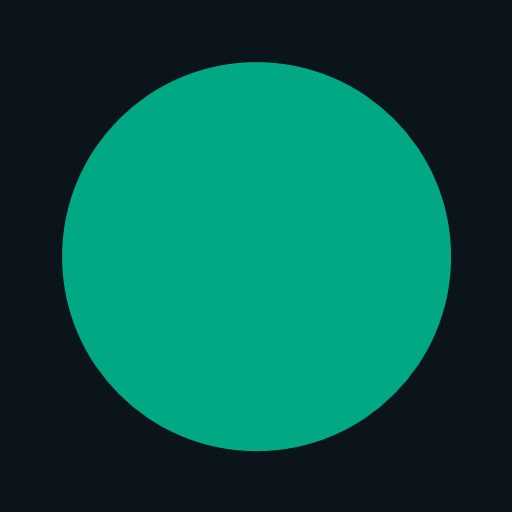
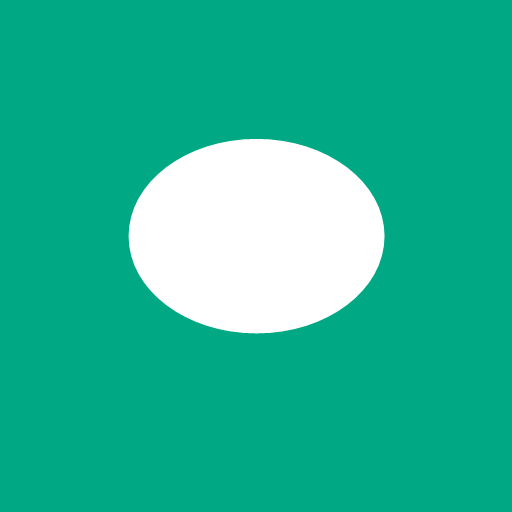
Initial commit

diff --git a/src/services/push.service.ts b/src/services/push.service.ts
@@ -1,0 +1,83 @@
+import { supabase } from '@/lib/supabase';
+
+/**
+ * Web Push helpers for PWA notifications.
+ *
+ * The VAPID public key comes from the deployment environment. If it is not
+ * configured, push subscription is skipped and the app falls back to
+ * foreground-only `new Notification()`.
+ */
+const VAPID_PUBLIC_KEY = import.meta.env.VITE_VAPID_PUBLIC_KEY as string | undefined;
+
+function urlBase64ToUint8Array(base64String: string): Uint8Array {
+  const padding = '='.repeat((4 - (base64String.length % 4)) % 4);
+  const base64 = (base64String + padding).replace(/-/g, '+').replace(/_/g, '/');
+  const rawData = window.atob(base64);
+  const outputArray = new Uint8Array(rawData.length);
+  for (let i = 0; i < rawData.length; ++i) {
+    outputArray[i] = rawData.charCodeAt(i);
+  }
+  return outputArray;
+}
+
+/** Register (or re-use) a push subscription for the current user. */
+export async function subscribeToPush(): Promise<boolean> {
+  if (!('serviceWorker' in navigator) || !('PushManager' in window)) {
+    return false;
+  }
+  if (!VAPID_PUBLIC_KEY) {
+    // No VAPID key configured — cannot do Web Push.
+    return false;
+  }
+
+  try {
+    const registration = await navigator.serviceWorker.ready;
+    const existing = await registration.pushManager.getSubscription();
+    const subscription = existing || (await registration.pushManager.subscribe({
+      userVisibleOnly: true,
+      applicationServerKey: urlBase64ToUint8Array(VAPID_PUBLIC_KEY),
+    }));
+
+    const { data: { user } } = await supabase.auth.getUser();
+    if (!user) return false;
+
+    const subJson = subscription.toJSON() as {
+      endpoint: string;
+      keys?: { p256dh?: string; auth?: string };
+    };
+
+    const { error } = await supabase.from('push_subscriptions').upsert(
+      {
+        user_id: user.id,
+        endpoint: subJson.endpoint,
+        p256dh: subJson.keys?.p256dh ?? '',
+        auth: subJson.keys?.auth ?? '',
+        user_agent: navigator.userAgent,
+      },
+      { onConflict: 'endpoint' }
+    );
+
+    return !error;
+  } catch {
+    return false;
+  }
+}
+
+/** Remove the current push subscription for the user. */
+export async function unsubscribeFromPush(): Promise<boolean> {
+  try {
+    const registration = await navigator.serviceWorker.ready;
+    const subscription = await registration.pushManager.getSubscription();
+    if (subscription) {
+      const endpoint = subscription.endpoint;
+      await subscription.unsubscribe();
+      const { data: { user } } = await supabase.auth.getUser();
+      if (user && endpoint) {
+        await supabase.from('push_subscriptions').delete().eq('endpoint', endpoint);
+      }
+    }
+    return true;
+  } catch {
+    return false;
+  }
+}

diff --git a/public/sw.js b/public/sw.js
@@ -1,6 +1,6 @@
-// Minimal service worker for PWA offline shell caching.
-const CACHE = 'pulse-v1';
-const ASSETS = ['/', '/index.html', '/icon.svg', '/manifest.webmanifest'];
+// Service worker for Pulse: offline shell caching + Web Push notifications.
+const CACHE = 'pulse-v2';
+const ASSETS = ['/', '/index.html', '/icon.svg', '/icon-192.png', '/icon-512.png', '/manifest.webmanifest'];
 
 self.addEventListener('install', (e) => {
   e.waitUntil(caches.open(CACHE).then((c) => c.addAll(ASSETS)));
@@ -47,4 +47,42 @@ self.addEventListener('fetch', (e) => {
       )
     );
   }
+});
+
+// --- Web Push notifications ---------------------------------------------
+
+self.addEventListener('push', (event) => {
+  let data = {};
+  try {
+    data = event.data ? event.data.json() : {};
+  } catch {
+    data = { title: 'Pulse', body: 'New message' };
+  }
+
+  const title = data.title || 'Pulse';
+  const options = {
+    body: data.body || 'You have a new message',
+    icon: data.icon || '/icon-192.png',
+    badge: '/icon-192.png',
+    data: { url: data.url || '/chats' },
+    ...(data.tag ? { tag: data.tag } : {}),
+  };
+
+  event.waitUntil(self.registration.showNotification(title, options));
+});
+
+self.addEventListener('notificationclick', (event) => {
+  event.notification.close();
+  const url = event.notification.data?.url || '/chats';
+  event.waitUntil(
+    self.clients.matchAll({ type: 'window', includeUncontrolled: true }).then((clients) => {
+      for (const client of clients) {
+        if ('focus' in client) {
+          client.navigate(url);
+          return client.focus();
+        }
+      }
+      return self.clients.openWindow(url);
+    })
+  );
 });

diff --git a/src/hooks/useBrowserNotifications.ts b/src/hooks/useBrowserNotifications.ts
@@ -1,4 +1,5 @@
 import { useEffect, useState, useCallback } from 'react';
+import { subscribeToPush, unsubscribeFromPush } from '@/services/push.service';
 
 type Permission = 'default' | 'granted' | 'denied' | 'unsupported';
 
@@ -17,6 +18,10 @@ export function useBrowserNotifications() {
     if (!('Notification' in window)) return 'unsupported' as const;
     const result = await Notification.requestPermission();
     setPermission(result as Permission);
+    if (result === 'granted') {
+      // Register the PWA push subscription if the service worker is ready.
+      await subscribeToPush();
+    }
     return result as Permission;
   }, []);
 
@@ -27,8 +32,8 @@ export function useBrowserNotifications() {
       }
       try {
         const n = new Notification(title, {
-          icon: '/icon.svg',
-          badge: '/icon.svg',
+          icon: '/icon-192.png',
+          badge: '/icon-192.png',
           ...options,
         });
         if (options?.onClick) {
@@ -46,5 +51,9 @@ export function useBrowserNotifications() {
     []
   );
 
-  return { permission, requestPermission, notify };
+  const disable = useCallback(async () => {
+    await unsubscribeFromPush();
+  }, []);
+
+  return { permission, requestPermission, notify, disable };
 }

diff --git a/src/layouts/ChatLayout.tsx b/src/layouts/ChatLayout.tsx
@@ -18,19 +18,25 @@ export function ChatLayout() {
     location.pathname === '/starred';
 
   return (
-    <div className="flex min-h-dvh w-full pt-safe bg-chat-panel dark:bg-chat-dark-panel">
+    <div className="flex h-dvh w-full pt-safe overflow-hidden bg-chat-panel dark:bg-chat-dark-panel">
       <aside
         className={cn(
-          'sidebar-pane w-full shrink-0 border-r border-chat-border dark:border-chat-dark-border md:w-[380px] lg:w-[400px]',
+          'sidebar-pane w-full h-full shrink-0 overflow-hidden border-r border-chat-border dark:border-chat-dark-border md:w-[380px] lg:w-[400px]',
           isMobileFullScreen && 'hidden md:flex'
         )}
       >
         <ChatSidebar />
       </aside>
 
-      <main className={cn('chat-pane flex-1 min-w-0', !isMobileFullScreen && 'hidden md:flex')}>
+      <main
+        className={cn(
+          'chat-pane h-full flex-1 min-w-0 overflow-hidden',
+          !isMobileFullScreen && 'hidden md:flex'
+        )}
+      >
         <Outlet />
       </main>
     </div>
   );
 }
+

diff --git a/src/pages/SettingsPage.tsx b/src/pages/SettingsPage.tsx
@@ -31,7 +31,7 @@ export function SettingsPage() {
   const navigate = useNavigate();
   const { user, profile, signOut } = useAuth();
   const { mode, setMode, accentColor, setAccentColor } = useTheme();
-  const { permission, requestPermission } = useBrowserNotifications();
+const { permission, requestPermission, disable } = useBrowserNotifications();
   const [notifEnabled, setNotifEnabled] = useState(true);
   const [soundEnabled, setSoundEnabled] = useState(true);
 
@@ -48,6 +48,10 @@ export function SettingsPage() {
       await supabase
         .from('user_settings')
         .upsert({ user_id: user.id, notifications_enabled: !notifEnabled });
+    }
+    // If disabling, also remove the push subscription.
+    if (notifEnabled) {
+      await disable();
     }
   };
 

diff --git a/TODO.md b/TODO.md
@@ -9,3 +9,10 @@
 - [x] 6. Fix `ChatSidebar.tsx` — safe-area bottom padding on footer
 - [x] 7. Update `manifest.webmanifest` — proper PWA icons for installability
 - [x] 8. Verify build compiles with `npm run build`
+
+## PWA Notification Support (bonus)
+- [x] Add `push_subscriptions` table migration
+- [x] Add Web Push handler to `sw.js`
+- [x] Add `push.service.ts` for subscription management
+- [x] Integrate push subscription into `useBrowserNotifications` hook
+- [x] Wire disable/unsubscribe into `SettingsPage`
